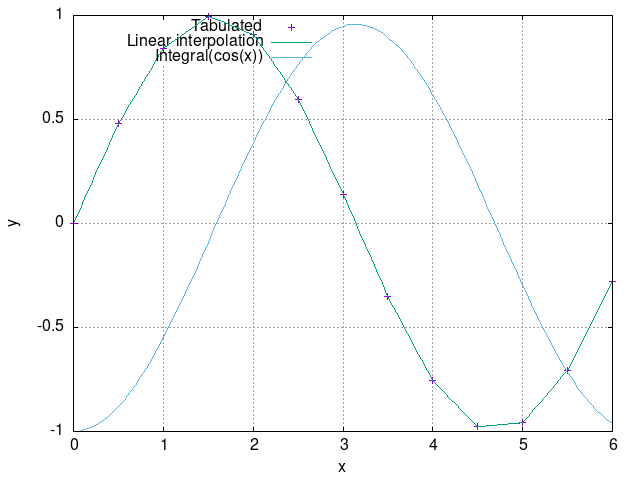
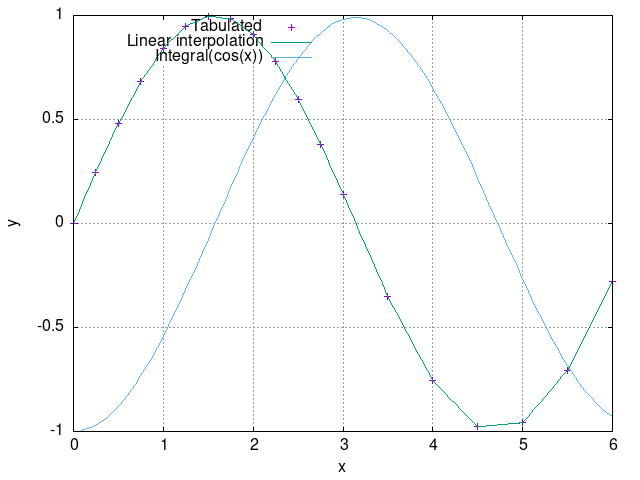
update spline task A

diff --git a/homeworks/splines/taskA/main.cs b/homeworks/splines/taskA/main.cs
@@ -5,9 +5,9 @@ using static linspline;
 
 public class main{
 	public static void Main(){
-		//Tabulated values [x, y] to test lspline after. Using values for at sinus-function.
-		double[] xs = new double[] {0, 0.5, 1.0, 1.5, 2.0, 2.5, 3.0, 3.5, 4.0, 4.5, 5.0, 5.5, 6.0};
-		double[] ys = new double[13];
+		// Making values for [x, y] to test linspline. Chosen the sinus-function.
+		double[] xs = new double[] {0, 0.25, 0.5,0.75, 1.0,1.25, 1.5,1.75, 2.0,2.25, 2.5,2.75, 3.0, 3.5, 4.0, 4.5, 5.0, 5.5, 6.0};
+		double[] ys = new double[19];
 		for(int i=0; i<xs.Length; i++){ //Findes the y-values for a sinus-function.
 			ys[i] = Sin(xs[i]);
 		}
